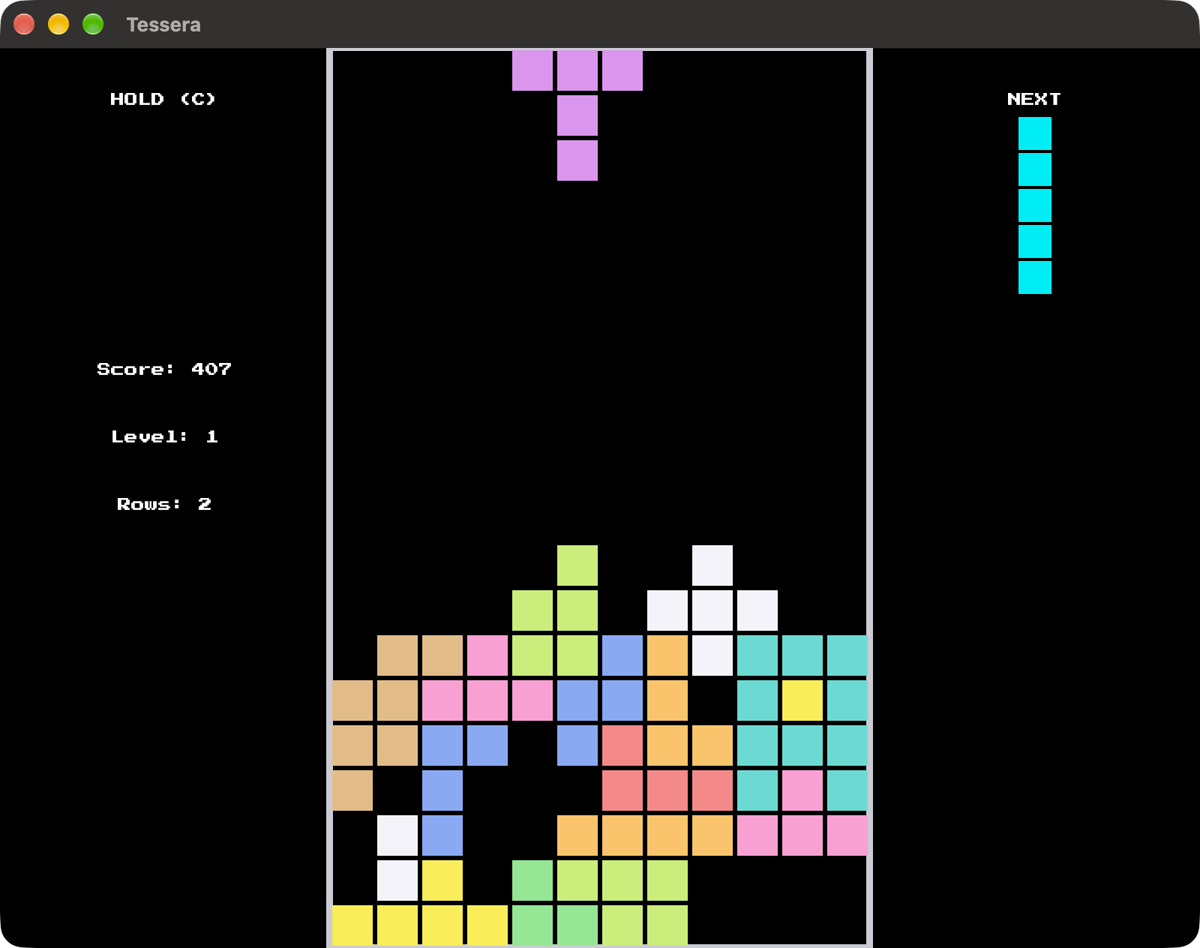
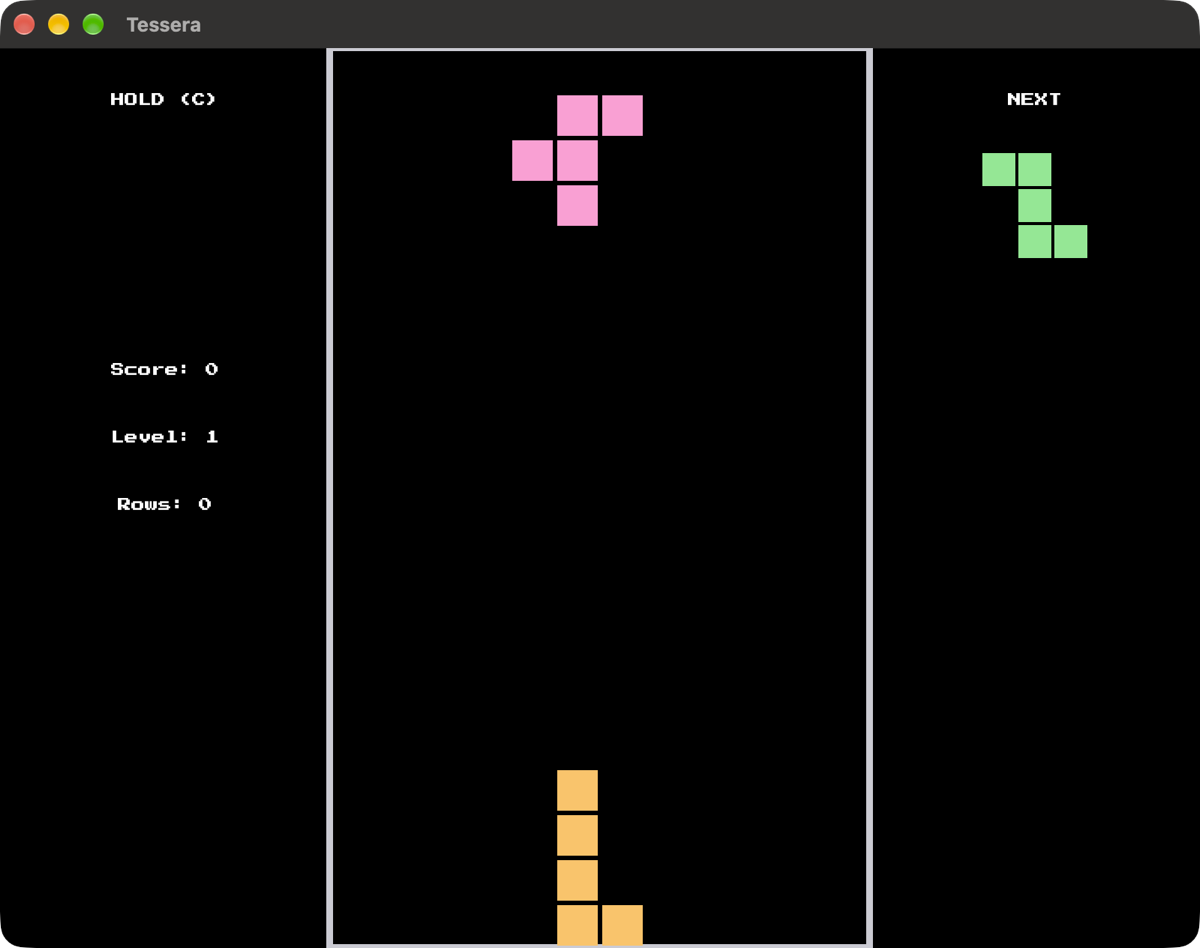
Drop a piece for the camera
Takes --screenshot, which plays eighteen seconds on the first frame and holds still, so the well has a landed piece under a falling one.

Eighteen rather than longer: nothing here moves a piece sideways, so every one lands in the middle column and seventy five seconds builds a spire rather than a game. One landed and one falling is as much as this can honestly show.

diff --git a/src/tessera_game.rs b/src/tessera_game.rs
@@ -58,9 +58,52 @@ pub struct TesseraGame {
     pause_system: PauseSystem,
     game_over_system: GameOverSystem,
     sound_pack: SoundPack,
+    /// Whether this run is only here to be photographed, and how long it has
+    /// been playing. See `refresh-screenshots` in the project above.
+    ///
+    /// A picture of the main menu says nothing about tessera, and a picture of
+    /// an empty well says little more. This plays it: pieces fall and settle
+    /// on their own with no hand on them, so the well fills by itself.
+    staged: bool,
+    played: f32,
 }
 
 impl TesseraGame {
+    /// How long the posed game plays before it holds still.
+    ///
+    /// Long enough for a few pieces to have landed, so the well has a floor
+    /// with the shape of a game in it, and short enough that none of it has
+    /// been cleared away.
+    ///
+    /// Eighteen seconds lands one piece, because a piece at level one takes
+    /// most of that to reach the bottom. Seventy five lands seven, and with no
+    /// hand on them every one lands in the middle column, so the well holds a
+    /// spire rather than a game. Nothing here moves a piece sideways, so one
+    /// landed and one falling is as much of a game as this can honestly show.
+    const PLAYS_FOR: f32 = 18.0;
+
+    /// Plays the game for the camera. See `refresh-screenshots`.
+    ///
+    /// All of it on the first frame rather than over eighteen real seconds,
+    /// because the shutter is on a timer and will not wait for the well to
+    /// fill.
+    fn pose(&mut self) {
+        if self.played == 0.0 {
+            self.state.game_state = GameState::Playing;
+            self.play_system.start(&mut self.state);
+
+            let step = 1.0 / 60.0;
+            while self.played < Self::PLAYS_FOR && self.state.game_state == GameState::Playing {
+                self.state.delta_time = step;
+                self.play_system
+                    .update_state(&mut self.input, &mut self.state);
+                self.played += step;
+            }
+        }
+
+        self.state.delta_time = 0.0;
+    }
+
     pub fn new() -> Self {
         Self {
             input: Input::new(),
@@ -70,6 +113,8 @@ impl TesseraGame {
             play_system: PlaySystem,
             pause_system: PauseSystem,
             game_over_system: GameOverSystem::new(),
+            staged: crate::staged(),
+            played: 0.0,
             sound_pack: SoundPack::new(),
         }
     }
@@ -102,6 +147,10 @@ impl Game for TesseraGame {
         sound_system: &SoundSystem,
     ) {
         self.state.delta_time = dt;
+
+        if self.staged {
+            self.pose();
+        }
 
         self.visibility_system
             .update_state(&mut self.input, &mut self.state);
@@ -166,6 +215,12 @@ impl Game for TesseraGame {
     }
 
     fn focus_changed(&mut self, focus: bool) {
+        // a staged run is photographed from behind the terminal, so it never
+        // has focus and pausing on losing it would photograph the pause screen
+        if self.staged {
+            return;
+        }
+
         // only a game in progress can be paused; losing focus on the menu or the
         // game over screen leaves the screen alone
         if !focus && self.state.game_state == GameState::Playing {

diff --git a/src/main.rs b/src/main.rs
@@ -12,6 +12,12 @@ mod util;
 
 use tessera_game::TesseraGame;
 
+/// Whether this run is only here to be photographed, for `refresh-screenshots`
+/// in the project above.
+pub fn staged() -> bool {
+    std::env::args().any(|arg| arg == "--screenshot")
+}
+
 fn main() {
     start("Tessera", Box::new(TesseraGame::new()));
 }
